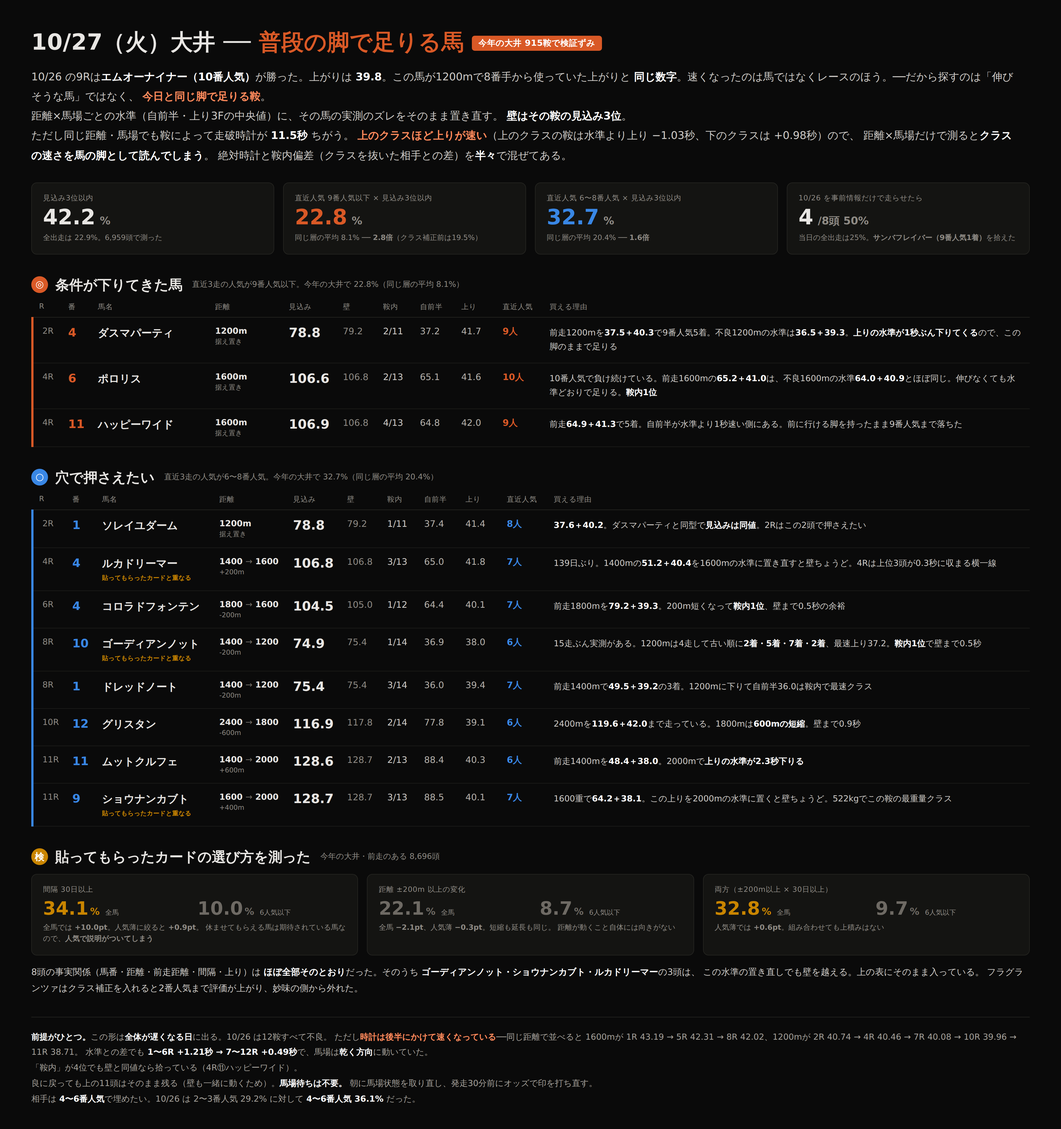
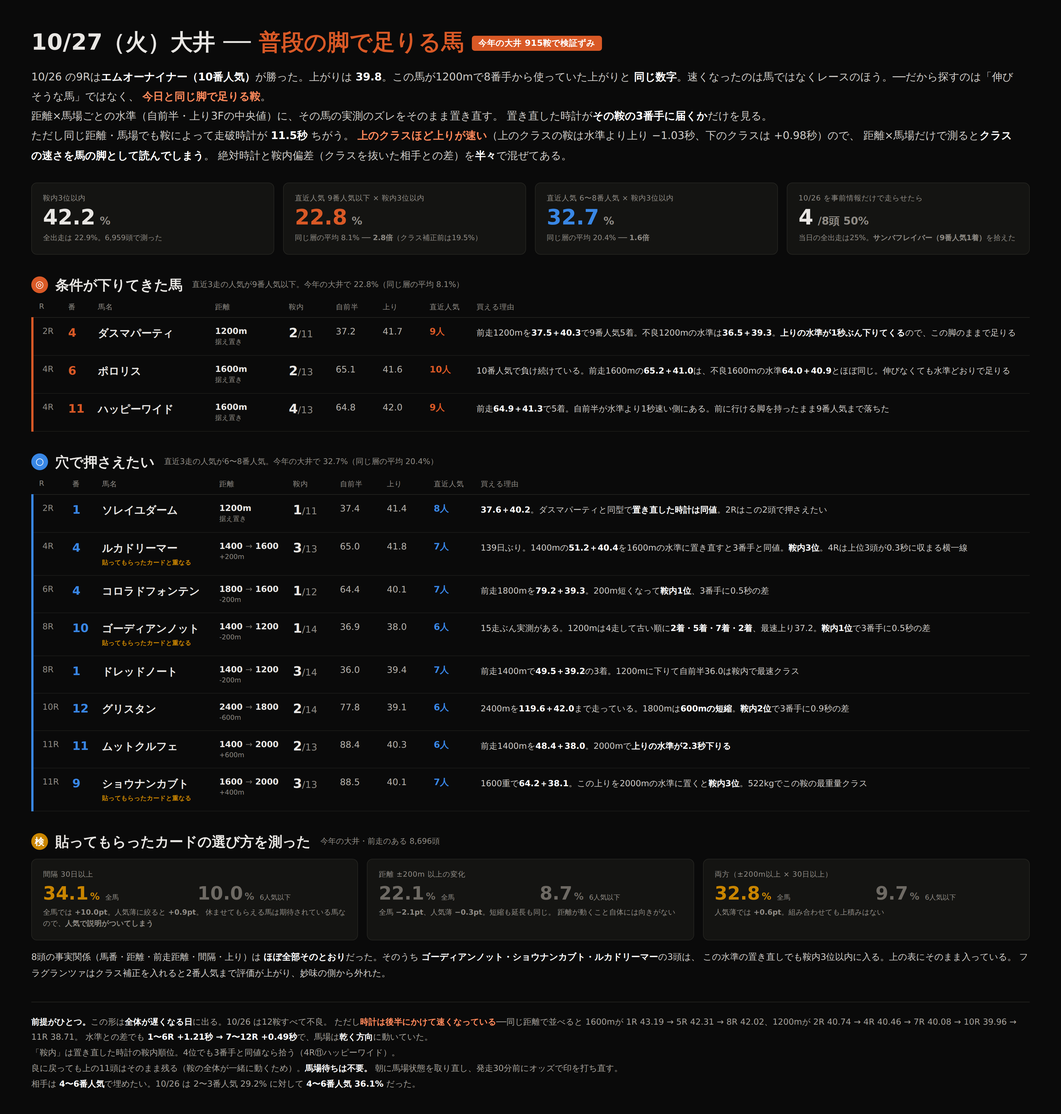
大井10/27の画像：見込みと壁の列を外す
置き直した時計の絶対値と壁の列を消し、鞍内順位・自前半・上り・
直近人気・買える理由だけにした。理由の文中の「壁」も鞍内順位と
3番手との差の言い方に直した。

Claude-Session: https://claude.ai/code/session_01RoHscZkr96FNaxQWvUqgEw

diff --git a/notes/live/2026-10-27/ooi_1027.html b/notes/live/2026-10-27/ooi_1027.html
@@ -34,10 +34,9 @@ tr td:first-child{border-left:4px solid var(--c);padding-left:16px}
 .d{width:132px;font-size:15px;font-weight:700;white-space:nowrap}
 .ar{color:#6e6a64;margin:0 5px;font-weight:400}
 .dm{font-size:12px;color:#8e8a84;font-weight:500}
-.big{font-weight:800;font-size:23px;width:88px;font-variant-numeric:tabular-nums}
-.bar{color:#8e8a84;width:72px;font-variant-numeric:tabular-nums}
-.rk{width:66px;font-variant-numeric:tabular-nums;color:#cfccc8}
-.mono{width:74px;font-variant-numeric:tabular-nums;color:#b5b1ab}
+.rk{width:84px;font-variant-numeric:tabular-nums;color:#8e8a84;font-size:17px}
+.rk b{font-size:23px;font-weight:800;color:#e8e6e3}
+.mono{width:84px;font-variant-numeric:tabular-nums;color:#b5b1ab}
 .pp{width:84px;font-weight:700;color:var(--c)}
 .why{color:#cfccc8;font-size:15px;line-height:1.7}
 .why b{color:#fff}
@@ -61,19 +60,19 @@ footer .hl{color:#ff8a5c;font-weight:700}
 <b>同じ数字</b>。速くなったのは馬ではなくレースのほう。──だから探すのは「伸びそうな馬」ではなく、
 <span class="hl">今日と同じ脚で足りる鞍</span>。<br>
 距離×馬場ごとの水準（自前半・上り3Fの中央値）に、その馬の実測のズレをそのまま置き直す。
-<b>壁はその鞍の見込み3位</b>。<br>
+置き直した時計が<b>その鞍の3番手に届くか</b>だけを見る。<br>
 ただし同じ距離・馬場でも鞍によって走破時計が <b>11.5秒</b> ちがう。
 <span class="hl">上のクラスほど上りが速い</span>（上のクラスの鞍は水準より上り −1.03秒、下のクラスは +0.98秒）ので、
 距離×馬場だけで測ると<b>クラスの速さを馬の脚として読んでしまう</b>。
 絶対時計と鞍内偏差（クラスを抜いた相手との差）を<b>半々</b>で混ぜてある。
 </p>
 <div class="tiles">
- <div class="tile"><div class="k">見込み3位以内</div><div class="v">42.2<small>%</small></div>
+ <div class="tile"><div class="k">鞍内3位以内</div><div class="v">42.2<small>%</small></div>
   <div class="n">全出走は 22.9%。6,959頭で測った</div></div>
- <div class="tile"><div class="k">直近人気 9番人気以下 × 見込み3位以内</div>
+ <div class="tile"><div class="k">直近人気 9番人気以下 × 鞍内3位以内</div>
   <div class="v" style="color:#d95926">22.8<small>%</small></div>
   <div class="n">同じ層の平均 8.1% ── <b>2.8倍</b>（クラス補正前は19.5%）</div></div>
- <div class="tile"><div class="k">直近人気 6〜8番人気 × 見込み3位以内</div>
+ <div class="tile"><div class="k">直近人気 6〜8番人気 × 鞍内3位以内</div>
   <div class="v" style="color:#3987e5">32.7<small>%</small></div>
   <div class="n">同じ層の平均 20.4% ── <b>1.6倍</b></div></div>
  <div class="tile"><div class="k">10/26 を事前情報だけで走らせたら</div>
@@ -81,20 +80,20 @@ footer .hl{color:#ff8a5c;font-weight:700}
   <div class="n">当日の全出走は25%。<b>サンバフレイバー（9番人気1着）</b>を拾えた</div></div>
 </div>
 <section><div class="sh"><span class="badge" style="background:#d95926">◎</span><h2>条件が下りてきた馬</h2><span class="sub">直近3走の人気が9番人気以下。今年の大井で 22.8%（同じ層の平均 8.1%）</span></div>
-<table><thead><tr><th>R</th><th>番</th><th>馬名</th><th>距離</th><th>見込み</th><th>壁</th><th>鞍内</th><th>自前半</th><th>上り</th><th>直近人気</th><th>買える理由</th></tr></thead><tbody>
-<tr style="--c:#d95926"><td class="r">2R</td><td class="u">4</td><td class="nm">ダスマパーティ</td><td class="d">1200m<br><span class="dm">据え置き</span></td><td class="big">78.8</td><td class="bar">79.2</td><td class="rk">2/11</td><td class="mono">37.2</td><td class="mono">41.7</td><td class="pp">9人</td><td class="why">前走1200mを<b>37.5＋40.3</b>で9番人気5着。不良1200mの水準は<b>36.5＋39.3</b>。<b>上りの水準が1秒ぶん下りてくる</b>ので、この脚のままで足りる</td></tr>
-<tr style="--c:#d95926"><td class="r">4R</td><td class="u">6</td><td class="nm">ポロリス</td><td class="d">1600m<br><span class="dm">据え置き</span></td><td class="big">106.6</td><td class="bar">106.8</td><td class="rk">2/13</td><td class="mono">65.1</td><td class="mono">41.6</td><td class="pp">10人</td><td class="why">10番人気で負け続けている。前走1600mの<b>65.2＋41.0</b>は、不良1600mの水準<b>64.0＋40.9</b>とほぼ同じ。伸びなくても水準どおりで足りる。<b>鞍内1位</b></td></tr>
-<tr style="--c:#d95926"><td class="r">4R</td><td class="u">11</td><td class="nm">ハッピーワイド</td><td class="d">1600m<br><span class="dm">据え置き</span></td><td class="big">106.9</td><td class="bar">106.8</td><td class="rk">4/13</td><td class="mono">64.8</td><td class="mono">42.0</td><td class="pp">9人</td><td class="why">前走<b>64.9＋41.3</b>で5着。自前半が水準より1秒速い側にある。前に行ける脚を持ったまま9番人気まで落ちた</td></tr></tbody></table></section>
+<table><thead><tr><th>R</th><th>番</th><th>馬名</th><th>距離</th><th>鞍内</th><th>自前半</th><th>上り</th><th>直近人気</th><th>買える理由</th></tr></thead><tbody>
+<tr style="--c:#d95926"><td class="r">2R</td><td class="u">4</td><td class="nm">ダスマパーティ</td><td class="d">1200m<br><span class="dm">据え置き</span></td><td class="rk"><b>2</b>/11</td><td class="mono">37.2</td><td class="mono">41.7</td><td class="pp">9人</td><td class="why">前走1200mを<b>37.5＋40.3</b>で9番人気5着。不良1200mの水準は<b>36.5＋39.3</b>。<b>上りの水準が1秒ぶん下りてくる</b>ので、この脚のままで足りる</td></tr>
+<tr style="--c:#d95926"><td class="r">4R</td><td class="u">6</td><td class="nm">ポロリス</td><td class="d">1600m<br><span class="dm">据え置き</span></td><td class="rk"><b>2</b>/13</td><td class="mono">65.1</td><td class="mono">41.6</td><td class="pp">10人</td><td class="why">10番人気で負け続けている。前走1600mの<b>65.2＋41.0</b>は、不良1600mの水準<b>64.0＋40.9</b>とほぼ同じ。伸びなくても水準どおりで足りる</td></tr>
+<tr style="--c:#d95926"><td class="r">4R</td><td class="u">11</td><td class="nm">ハッピーワイド</td><td class="d">1600m<br><span class="dm">据え置き</span></td><td class="rk"><b>4</b>/13</td><td class="mono">64.8</td><td class="mono">42.0</td><td class="pp">9人</td><td class="why">前走<b>64.9＋41.3</b>で5着。自前半が水準より1秒速い側にある。前に行ける脚を持ったまま9番人気まで落ちた</td></tr></tbody></table></section>
 <section><div class="sh"><span class="badge" style="background:#3987e5">○</span><h2>穴で押さえたい</h2><span class="sub">直近3走の人気が6〜8番人気。今年の大井で 32.7%（同じ層の平均 20.4%）</span></div>
-<table><thead><tr><th>R</th><th>番</th><th>馬名</th><th>距離</th><th>見込み</th><th>壁</th><th>鞍内</th><th>自前半</th><th>上り</th><th>直近人気</th><th>買える理由</th></tr></thead><tbody>
-<tr style="--c:#3987e5"><td class="r">2R</td><td class="u">1</td><td class="nm">ソレイユダーム</td><td class="d">1200m<br><span class="dm">据え置き</span></td><td class="big">78.8</td><td class="bar">79.2</td><td class="rk">1/11</td><td class="mono">37.4</td><td class="mono">41.4</td><td class="pp">8人</td><td class="why"><b>37.6＋40.2</b>。ダスマパーティと同型で<b>見込みは同値</b>。2Rはこの2頭で押さえたい</td></tr>
-<tr style="--c:#3987e5"><td class="r">4R</td><td class="u">4</td><td class="nm">ルカドリーマー<span class="ov">貼ってもらったカードと重なる</span></td><td class="d">1400<span class="ar">→</span>1600<br><span class="dm">+200m</span></td><td class="big">106.8</td><td class="bar">106.8</td><td class="rk">3/13</td><td class="mono">65.0</td><td class="mono">41.8</td><td class="pp">7人</td><td class="why">139日ぶり。1400mの<b>51.2＋40.4</b>を1600mの水準に置き直すと壁ちょうど。4Rは上位3頭が0.3秒に収まる横一線</td></tr>
-<tr style="--c:#3987e5"><td class="r">6R</td><td class="u">4</td><td class="nm">コロラドフォンテン</td><td class="d">1800<span class="ar">→</span>1600<br><span class="dm">-200m</span></td><td class="big">104.5</td><td class="bar">105.0</td><td class="rk">1/12</td><td class="mono">64.4</td><td class="mono">40.1</td><td class="pp">7人</td><td class="why">前走1800mを<b>79.2＋39.3</b>。200m短くなって<b>鞍内1位</b>、壁まで0.5秒の余裕</td></tr>
-<tr style="--c:#3987e5"><td class="r">8R</td><td class="u">10</td><td class="nm">ゴーディアンノット<span class="ov">貼ってもらったカードと重なる</span></td><td class="d">1400<span class="ar">→</span>1200<br><span class="dm">-200m</span></td><td class="big">74.9</td><td class="bar">75.4</td><td class="rk">1/14</td><td class="mono">36.9</td><td class="mono">38.0</td><td class="pp">6人</td><td class="why">15走ぶん実測がある。1200mは4走して古い順に<b>2着・5着・7着・2着</b>、最速上り37.2。<b>鞍内1位</b>で壁まで0.5秒</td></tr>
-<tr style="--c:#3987e5"><td class="r">8R</td><td class="u">1</td><td class="nm">ドレッドノート</td><td class="d">1400<span class="ar">→</span>1200<br><span class="dm">-200m</span></td><td class="big">75.4</td><td class="bar">75.4</td><td class="rk">3/14</td><td class="mono">36.0</td><td class="mono">39.4</td><td class="pp">7人</td><td class="why">前走1400mで<b>49.5＋39.2</b>の3着。1200mに下りて自前半36.0は鞍内で最速クラス</td></tr>
-<tr style="--c:#3987e5"><td class="r">10R</td><td class="u">12</td><td class="nm">グリスタン</td><td class="d">2400<span class="ar">→</span>1800<br><span class="dm">-600m</span></td><td class="big">116.9</td><td class="bar">117.8</td><td class="rk">2/14</td><td class="mono">77.8</td><td class="mono">39.1</td><td class="pp">6人</td><td class="why">2400mを<b>119.6＋42.0</b>まで走っている。1800mは<b>600mの短縮</b>。壁まで0.9秒</td></tr>
-<tr style="--c:#3987e5"><td class="r">11R</td><td class="u">11</td><td class="nm">ムットクルフェ</td><td class="d">1400<span class="ar">→</span>2000<br><span class="dm">+600m</span></td><td class="big">128.6</td><td class="bar">128.7</td><td class="rk">2/13</td><td class="mono">88.4</td><td class="mono">40.3</td><td class="pp">6人</td><td class="why">前走1400mを<b>48.4＋38.0</b>。2000mで<b>上りの水準が2.3秒下りる</b></td></tr>
-<tr style="--c:#3987e5"><td class="r">11R</td><td class="u">9</td><td class="nm">ショウナンカブト<span class="ov">貼ってもらったカードと重なる</span></td><td class="d">1600<span class="ar">→</span>2000<br><span class="dm">+400m</span></td><td class="big">128.7</td><td class="bar">128.7</td><td class="rk">3/13</td><td class="mono">88.5</td><td class="mono">40.1</td><td class="pp">7人</td><td class="why">1600重で<b>64.2＋38.1</b>。この上りを2000mの水準に置くと壁ちょうど。522kgでこの鞍の最重量クラス</td></tr></tbody></table></section>
+<table><thead><tr><th>R</th><th>番</th><th>馬名</th><th>距離</th><th>鞍内</th><th>自前半</th><th>上り</th><th>直近人気</th><th>買える理由</th></tr></thead><tbody>
+<tr style="--c:#3987e5"><td class="r">2R</td><td class="u">1</td><td class="nm">ソレイユダーム</td><td class="d">1200m<br><span class="dm">据え置き</span></td><td class="rk"><b>1</b>/11</td><td class="mono">37.4</td><td class="mono">41.4</td><td class="pp">8人</td><td class="why"><b>37.6＋40.2</b>。ダスマパーティと同型で<b>置き直した時計は同値</b>。2Rはこの2頭で押さえたい</td></tr>
+<tr style="--c:#3987e5"><td class="r">4R</td><td class="u">4</td><td class="nm">ルカドリーマー<span class="ov">貼ってもらったカードと重なる</span></td><td class="d">1400<span class="ar">→</span>1600<br><span class="dm">+200m</span></td><td class="rk"><b>3</b>/13</td><td class="mono">65.0</td><td class="mono">41.8</td><td class="pp">7人</td><td class="why">139日ぶり。1400mの<b>51.2＋40.4</b>を1600mの水準に置き直すと3番手と同値。<b>鞍内3位</b>。4Rは上位3頭が0.3秒に収まる横一線</td></tr>
+<tr style="--c:#3987e5"><td class="r">6R</td><td class="u">4</td><td class="nm">コロラドフォンテン</td><td class="d">1800<span class="ar">→</span>1600<br><span class="dm">-200m</span></td><td class="rk"><b>1</b>/12</td><td class="mono">64.4</td><td class="mono">40.1</td><td class="pp">7人</td><td class="why">前走1800mを<b>79.2＋39.3</b>。200m短くなって<b>鞍内1位</b>、3番手に0.5秒の差</td></tr>
+<tr style="--c:#3987e5"><td class="r">8R</td><td class="u">10</td><td class="nm">ゴーディアンノット<span class="ov">貼ってもらったカードと重なる</span></td><td class="d">1400<span class="ar">→</span>1200<br><span class="dm">-200m</span></td><td class="rk"><b>1</b>/14</td><td class="mono">36.9</td><td class="mono">38.0</td><td class="pp">6人</td><td class="why">15走ぶん実測がある。1200mは4走して古い順に<b>2着・5着・7着・2着</b>、最速上り37.2。<b>鞍内1位</b>で3番手に0.5秒の差</td></tr>
+<tr style="--c:#3987e5"><td class="r">8R</td><td class="u">1</td><td class="nm">ドレッドノート</td><td class="d">1400<span class="ar">→</span>1200<br><span class="dm">-200m</span></td><td class="rk"><b>3</b>/14</td><td class="mono">36.0</td><td class="mono">39.4</td><td class="pp">7人</td><td class="why">前走1400mで<b>49.5＋39.2</b>の3着。1200mに下りて自前半36.0は鞍内で最速クラス</td></tr>
+<tr style="--c:#3987e5"><td class="r">10R</td><td class="u">12</td><td class="nm">グリスタン</td><td class="d">2400<span class="ar">→</span>1800<br><span class="dm">-600m</span></td><td class="rk"><b>2</b>/14</td><td class="mono">77.8</td><td class="mono">39.1</td><td class="pp">6人</td><td class="why">2400mを<b>119.6＋42.0</b>まで走っている。1800mは<b>600mの短縮</b>。<b>鞍内2位</b>で3番手に0.9秒の差</td></tr>
+<tr style="--c:#3987e5"><td class="r">11R</td><td class="u">11</td><td class="nm">ムットクルフェ</td><td class="d">1400<span class="ar">→</span>2000<br><span class="dm">+600m</span></td><td class="rk"><b>2</b>/13</td><td class="mono">88.4</td><td class="mono">40.3</td><td class="pp">6人</td><td class="why">前走1400mを<b>48.4＋38.0</b>。2000mで<b>上りの水準が2.3秒下りる</b></td></tr>
+<tr style="--c:#3987e5"><td class="r">11R</td><td class="u">9</td><td class="nm">ショウナンカブト<span class="ov">貼ってもらったカードと重なる</span></td><td class="d">1600<span class="ar">→</span>2000<br><span class="dm">+400m</span></td><td class="rk"><b>3</b>/13</td><td class="mono">88.5</td><td class="mono">40.1</td><td class="pp">7人</td><td class="why">1600重で<b>64.2＋38.1</b>。この上りを2000mの水準に置くと<b>鞍内3位</b>。522kgでこの鞍の最重量クラス</td></tr></tbody></table></section>
 <section><div class="sh"><span class="badge" style="background:#c98500">検</span>
 <h2>貼ってもらったカードの選び方を測った</h2>
 <span class="sub">今年の大井・前走のある 8,696頭</span></div>
@@ -117,7 +116,7 @@ footer .hl{color:#ff8a5c;font-weight:700}
 <p class="note">8頭の事実関係（馬番・距離・前走距離・間隔・上り）は
 <b>ほぼ全部そのとおり</b>だった。そのうち
 <b>ゴーディアンノット・ショウナンカブト・ルカドリーマー</b>の3頭は、
-この水準の置き直しでも壁を越える。上の表にそのまま入っている。
+この水準の置き直しでも鞍内3位以内に入る。上の表にそのまま入っている。
 フラグランツァはクラス補正を入れると2番人気まで評価が上がり、妙味の側から外れた。</p>
 </section>
 <footer>
@@ -125,7 +124,7 @@ footer .hl{color:#ff8a5c;font-weight:700}
 ただし<span class="hl">時計は後半にかけて速くなっている</span>──同じ距離で並べると
 1600mが 1R 43.19 → 5R 42.31 → 8R 42.02、1200mが 2R 40.74 → 4R 40.46 → 7R 40.08 → 10R 39.96 → 11R 38.71。
 水準との差でも <b>1〜6R +1.21秒 → 7〜12R +0.49秒</b>で、馬場は<b>乾く方向</b>に動いていた。<br>
-「鞍内」が4位でも壁と同値なら拾っている（4R⑪ハッピーワイド）。<br>良に戻っても上の11頭はそのまま残る（壁も一緒に動くため）。<b>馬場待ちは不要。</b>
+「鞍内」は置き直した時計の鞍内順位。4位でも3番手と同値なら拾う（4R⑪ハッピーワイド）。<br>良に戻っても上の11頭はそのまま残る（鞍の全体が一緒に動くため）。<b>馬場待ちは不要。</b>
 朝に馬場状態を取り直し、発走30分前にオッズで印を打ち直す。<br>
 相手は <b>4〜6番人気</b>で埋めたい。10/26 は 2〜3番人気 29.2% に対して <b>4〜6番人気 36.1%</b> だった。
 </footer>

diff --git a/scripts/ana/ooi_fit_card.py b/scripts/ana/ooi_fit_card.py
@@ -32,24 +32,24 @@ WHY = {
  'ダスマパーティ': '前走1200mを<b>37.5＋40.3</b>で9番人気5着。不良1200mの水準は'
                '<b>36.5＋39.3</b>。<b>上りの水準が1秒ぶん下りてくる</b>ので、'
                'この脚のままで足りる',
- 'ソレイユダーム': '<b>37.6＋40.2</b>。ダスマパーティと同型で<b>見込みは同値</b>。'
+ 'ソレイユダーム': '<b>37.6＋40.2</b>。ダスマパーティと同型で<b>置き直した時計は同値</b>。'
                '2Rはこの2頭で押さえたい',
  'ポロリス': '10番人気で負け続けている。前走1600mの<b>65.2＋41.0</b>は、'
             '不良1600mの水準<b>64.0＋40.9</b>とほぼ同じ。'
-            '伸びなくても水準どおりで足りる。<b>鞍内1位</b>',
- 'ルカドリーマー': '139日ぶり。1400mの<b>51.2＋40.4</b>を1600mの水準に置き直すと壁ちょうど。'
-              '4Rは上位3頭が0.3秒に収まる横一線',
+            '伸びなくても水準どおりで足りる',
+ 'ルカドリーマー': '139日ぶり。1400mの<b>51.2＋40.4</b>を1600mの水準に置き直すと3番手と同値。'
+              '<b>鞍内3位</b>。4Rは上位3頭が0.3秒に収まる横一線',
  'ハッピーワイド': '前走<b>64.9＋41.3</b>で5着。自前半が水準より1秒速い側にある。'
                 '前に行ける脚を持ったまま9番人気まで落ちた',
  'コロラドフォンテン': '前走1800mを<b>79.2＋39.3</b>。200m短くなって<b>鞍内1位</b>、'
-                  '壁まで0.5秒の余裕',
+                  '3番手に0.5秒の差',
  'ゴーディアンノット': '15走ぶん実測がある。1200mは4走して古い順に<b>2着・5着・7着・2着</b>、'
-                 '最速上り37.2。<b>鞍内1位</b>で壁まで0.5秒',
+                 '最速上り37.2。<b>鞍内1位</b>で3番手に0.5秒の差',
  'ドレッドノート': '前走1400mで<b>49.5＋39.2</b>の3着。1200mに下りて自前半36.0は'
               '鞍内で最速クラス',
  'グリスタン': '2400mを<b>119.6＋42.0</b>まで走っている。1800mは<b>600mの短縮</b>。'
-            '壁まで0.9秒',
- 'ショウナンカブト': '1600重で<b>64.2＋38.1</b>。この上りを2000mの水準に置くと壁ちょうど。'
+            '<b>鞍内2位</b>で3番手に0.9秒の差',
+ 'ショウナンカブト': '1600重で<b>64.2＋38.1</b>。この上りを2000mの水準に置くと<b>鞍内3位</b>。'
                 '522kgでこの鞍の最重量クラス',
  'ムットクルフェ': '前走1400mを<b>48.4＋38.0</b>。2000mで<b>上りの水準が2.3秒下りる</b>',
 }
@@ -71,7 +71,7 @@ def tbl(mk):
     h = [f'<section><div class="sh"><span class="badge" style="background:{c}">{mk}</span>'
          f'<h2>{ttl}</h2><span class="sub">{sub}</span></div>',
          '<table><thead><tr><th>R</th><th>番</th><th>馬名</th><th>距離</th>'
-         '<th>見込み</th><th>壁</th><th>鞍内</th><th>自前半</th><th>上り</th>'
+         '<th>鞍内</th><th>自前半</th><th>上り</th>'
          '<th>直近人気</th><th>買える理由</th></tr></thead><tbody>']
     for r in rows[mk]:
         L = r['last']
@@ -84,8 +84,7 @@ def tbl(mk):
             f'<tr style="--c:{c}"><td class="r">{r["R"]}R</td><td class="u">{r["u"]}</td>'
             f'<td class="nm">{html.escape(r["nm"])}{ov}</td>'
             f'<td class="d">{ds}</td>'
-            f'<td class="big">{r["pt"]:.1f}</td><td class="bar">{r["bar"]:.1f}</td>'
-            f'<td class="rk">{r["rk"]}/{r["n"]}</td>'
+            f'<td class="rk"><b>{r["rk"]}</b>/{r["n"]}</td>'
             f'<td class="mono">{r["ph"]}</td><td class="mono">{r["pa"]}</td>'
             f'<td class="pp">{r["pp"]:g}人</td><td class="why">{r["why"]}</td></tr>')
     return '\n'.join(h) + '</tbody></table></section>'
@@ -127,10 +126,9 @@ tr td:first-child{{border-left:4px solid var(--c);padding-left:16px}}
 .d{{width:132px;font-size:15px;font-weight:700;white-space:nowrap}}
 .ar{{color:#6e6a64;margin:0 5px;font-weight:400}}
 .dm{{font-size:12px;color:#8e8a84;font-weight:500}}
-.big{{font-weight:800;font-size:23px;width:88px;font-variant-numeric:tabular-nums}}
-.bar{{color:#8e8a84;width:72px;font-variant-numeric:tabular-nums}}
-.rk{{width:66px;font-variant-numeric:tabular-nums;color:#cfccc8}}
-.mono{{width:74px;font-variant-numeric:tabular-nums;color:#b5b1ab}}
+.rk{{width:84px;font-variant-numeric:tabular-nums;color:#8e8a84;font-size:17px}}
+.rk b{{font-size:23px;font-weight:800;color:#e8e6e3}}
+.mono{{width:84px;font-variant-numeric:tabular-nums;color:#b5b1ab}}
 .pp{{width:84px;font-weight:700;color:var(--c)}}
 .why{{color:#cfccc8;font-size:15px;line-height:1.7}}
 .why b{{color:#fff}}
@@ -154,19 +152,19 @@ footer .hl{{color:#ff8a5c;font-weight:700}}
 <b>同じ数字</b>。速くなったのは馬ではなくレースのほう。──だから探すのは「伸びそうな馬」ではなく、
 <span class="hl">今日と同じ脚で足りる鞍</span>。<br>
 距離×馬場ごとの水準（自前半・上り3Fの中央値）に、その馬の実測のズレをそのまま置き直す。
-<b>壁はその鞍の見込み3位</b>。<br>
+置き直した時計が<b>その鞍の3番手に届くか</b>だけを見る。<br>
 ただし同じ距離・馬場でも鞍によって走破時計が <b>11.5秒</b> ちがう。
 <span class="hl">上のクラスほど上りが速い</span>（上のクラスの鞍は水準より上り −1.03秒、下のクラスは +0.98秒）ので、
 距離×馬場だけで測ると<b>クラスの速さを馬の脚として読んでしまう</b>。
 絶対時計と鞍内偏差（クラスを抜いた相手との差）を<b>半々</b>で混ぜてある。
 </p>
 <div class="tiles">
- <div class="tile"><div class="k">見込み3位以内</div><div class="v">42.2<small>%</small></div>
+ <div class="tile"><div class="k">鞍内3位以内</div><div class="v">42.2<small>%</small></div>
   <div class="n">全出走は 22.9%。6,959頭で測った</div></div>
- <div class="tile"><div class="k">直近人気 9番人気以下 × 見込み3位以内</div>
+ <div class="tile"><div class="k">直近人気 9番人気以下 × 鞍内3位以内</div>
   <div class="v" style="color:#d95926">22.8<small>%</small></div>
   <div class="n">同じ層の平均 8.1% ── <b>2.8倍</b>（クラス補正前は19.5%）</div></div>
- <div class="tile"><div class="k">直近人気 6〜8番人気 × 見込み3位以内</div>
+ <div class="tile"><div class="k">直近人気 6〜8番人気 × 鞍内3位以内</div>
   <div class="v" style="color:#3987e5">32.7<small>%</small></div>
   <div class="n">同じ層の平均 20.4% ── <b>1.6倍</b></div></div>
  <div class="tile"><div class="k">10/26 を事前情報だけで走らせたら</div>
@@ -197,7 +195,7 @@ footer .hl{{color:#ff8a5c;font-weight:700}}
 <p class="note">8頭の事実関係（馬番・距離・前走距離・間隔・上り）は
 <b>ほぼ全部そのとおり</b>だった。そのうち
 <b>ゴーディアンノット・ショウナンカブト・ルカドリーマー</b>の3頭は、
-この水準の置き直しでも壁を越える。上の表にそのまま入っている。
+この水準の置き直しでも鞍内3位以内に入る。上の表にそのまま入っている。
 フラグランツァはクラス補正を入れると2番人気まで評価が上がり、妙味の側から外れた。</p>
 </section>
 <footer>
@@ -205,7 +203,7 @@ footer .hl{{color:#ff8a5c;font-weight:700}}
 ただし<span class="hl">時計は後半にかけて速くなっている</span>──同じ距離で並べると
 1600mが 1R 43.19 → 5R 42.31 → 8R 42.02、1200mが 2R 40.74 → 4R 40.46 → 7R 40.08 → 10R 39.96 → 11R 38.71。
 水準との差でも <b>1〜6R +1.21秒 → 7〜12R +0.49秒</b>で、馬場は<b>乾く方向</b>に動いていた。<br>
-「鞍内」が4位でも壁と同値なら拾っている（4R⑪ハッピーワイド）。<br>良に戻っても上の11頭はそのまま残る（壁も一緒に動くため）。<b>馬場待ちは不要。</b>
+「鞍内」は置き直した時計の鞍内順位。4位でも3番手と同値なら拾う（4R⑪ハッピーワイド）。<br>良に戻っても上の11頭はそのまま残る（鞍の全体が一緒に動くため）。<b>馬場待ちは不要。</b>
 朝に馬場状態を取り直し、発走30分前にオッズで印を打ち直す。<br>
 相手は <b>4〜6番人気</b>で埋めたい。10/26 は 2〜3番人気 29.2% に対して <b>4〜6番人気 36.1%</b> だった。
 </footer>
